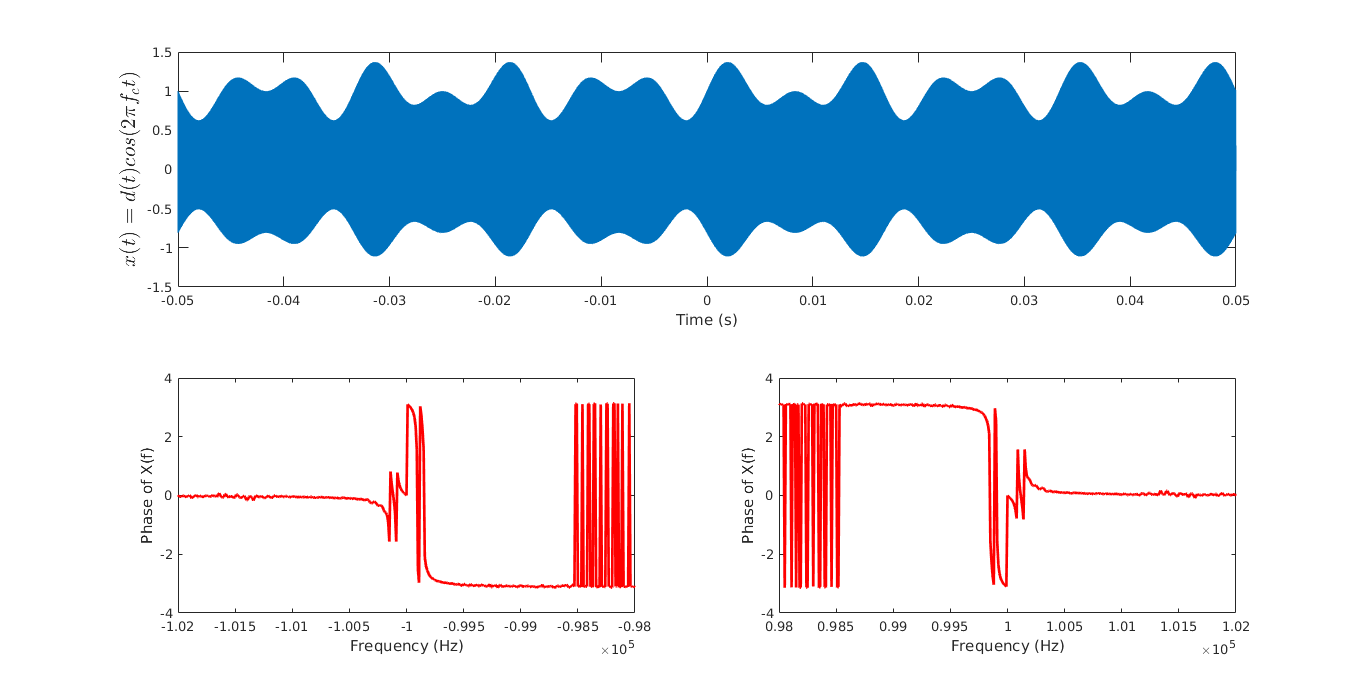
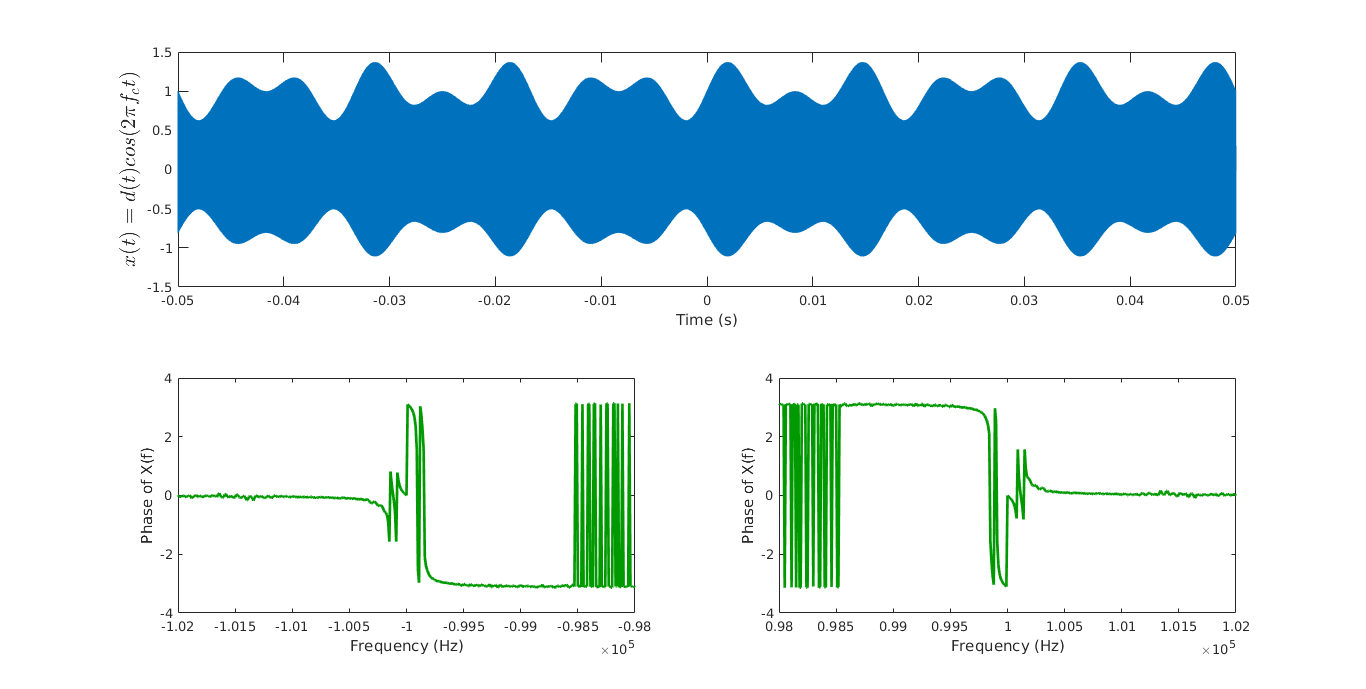
how do you even butterworth

Changed region(s): [[0.5534, 0.5791, 0.8917, 0.8534], [0.3075, 0.5791, 0.4612, 0.8534], [0.123, 0.5791, 0.3382, 0.7925]]

diff --git a/final/scripts/polezero_plot.m b/final/scripts/polezero_plot.m
@@ -1,0 +1,97 @@
+function [  ] = polezero_plot(b, a, s_or_z, ROC)
+    % function [  ] = polezero_plot( b,a,s_or_z,ROC)
+    % Creates a polezero plot in either the sdomain or zdomain based on
+    % the Mth order numerator polynomial with coefficients in b and the Nth
+    % order denominator polynomial with coefficients in a
+    %
+    % Calling Parameters
+    %   b:  1 x (M+1) array of numerator coefficients, with b(1) being the
+    %   coefficient of s^(M) and b(M+1) being the coefficient of s^(0)
+    %   a:  1 x (N+1) array of denominator coefficients, with a(1) being the
+    %   coefficient of s^(N) and a(N+1) being the coefficient of s^(0).
+    %   s_or_z:  single character with 's' indicating that the plot is in the
+    %   splane and 'z' indicating the plot is in the zplane (used for
+    %   discretetime systems).  Any other input is invalid.
+    %   ROC:  1 x 2 array [ROCmin ROCmax] indicating the Region of Convergence.
+    %   values of +/Inf are accceptable
+    %
+    % This first version should display an error message with no other output
+    % if s_or_z = 'z', that is, the zplane implementation will be provided at
+    % a later time.
+
+    % Throw an error if option for plotting on the z-plane is selected
+    if s_or_z == 'z'
+        error('Z-plane not implemented yet');
+
+    elseif s_or_z == 's'
+
+        % zeros and poles from the coefficients
+        zeros_ = roots(b);
+        poles_ = roots(a);
+
+        % sort all the roots by their imaginary parts to determine the
+        % bounds on the imaginary axis
+        data_points = cat(1, zeros_, poles_);
+        [~, idx] = sort(imag(data_points));
+        sorted_imag = imag(data_points(idx));
+
+        % lower and upper bound of the imaginary axis
+        [im_min, im_max] = deal(ceil(sorted_imag(1)) - 1, ceil(sorted_imag(end)) + 1);
+
+        [re_min, re_max] = deal(ROC(1), ROC(end));
+
+        % special conditions for infinite bounds of the region of
+        % convergence
+        zoom = 0;  % determines if the real axis needs to be manipulated
+        if any(ROC == -inf) || any(ROC == inf)
+            [~, idx] = sort(real(data_points));
+            sorted_real= real(data_points(idx));
+            zoom = 1;
+            if any(ROC == -inf)
+                [re_min, re_max] = deal(ceil(sorted_real(1)) - 1, ROC(end));
+            end
+            if any(ROC == inf)
+                [re_min, re_max] = deal(ROC(1), ceil(sorted_real(end)) + 3);
+            end
+        end
+        
+        figure;
+        hold on;
+
+        % shading the region of convergence
+        positive_area = area([re_min, re_max], [im_max, im_max]);
+        negative_area = area([re_min, re_max], [im_min, im_min]);
+        % additional settings for the region of convergence
+        set(positive_area, 'FaceColor', 'g');
+        set(negative_area, 'FaceColor', 'g');
+        alpha(0.5);
+
+        % plot the zeros and plots on the same plot
+        plot(zeros_, 'or');
+        plot(poles_, 'xb');
+
+        % if zooming in is required to fit the region of convergence
+        if zoom
+            xlim([re_min - 1, re_max]);
+        end
+
+        % convert the coefficients into a symbolic polynomial, casted into
+        % LaTex formatted string to be used for the title of the plot
+%         syms s;
+%         poly_equ = latex(poly2sym(b, s) / poly2sym(a, s));
+%         title_str = ['$$H(s)=', poly_equ, '$$'];
+% 
+%         % labels for the plot
+%         ylabel('$$\j\omega=Im(s)$$', 'Interpreter', 'latex', 'FontSize', 18);
+%         xlabel('$$\sigma=Re(s)$$', 'Interpreter', 'latex', 'FontSize', 18);
+%         title(title_str, 'Interpreter', 'latex', 'FontSize', 16);
+% 
+%         hold off;
+% 
+    % throw an error if an invalid option for plane is selected
+    else
+        error('Select a valid plane to plot');
+
+    end
+
+end

diff --git a/final/scripts/num11_main.m b/final/scripts/num11_main.m
@@ -49,13 +49,13 @@ ylabel('$$x(t) = d(t)cos(2\pi f_{c}t)$$', 'interpreter', 'latex', ...
 xlabel('Time (s)');
 
 subplot(223);
-plot(f, angle(fft_d), 'r-', 'linewidth', 2);
+plot(f, angle(fft_d), 'color', [0 0.6 0], 'linewidth', 2);
 xlim([-102e3 -98e3]);
 ylabel('Phase of X(f)');
 xlabel('Frequency (Hz)');
 
 subplot(224);
-plot(f, angle(fft_d), 'r-', 'linewidth', 2);
+plot(f, angle(fft_d), 'color', [0 0.6 0], 'linewidth', 2);
 xlim([98e3 102e3]);
 ylabel('Phase of X(f)');
 xlabel('Frequency (Hz)');

diff --git a/final/scripts/num13_main.m b/final/scripts/num13_main.m
@@ -1,0 +1,12 @@
+b = [1 2 5];
+a = [1.0000 7.0000 14.8125 12.8750 6.5000];
+
+w_c = 2*pi*10e3;
+
+
+
+% polezero_plot(b,a,'s',[-1 inf]);
+
+w = logspace(-1,2);
+figure;
+freqs(b,a,w);
